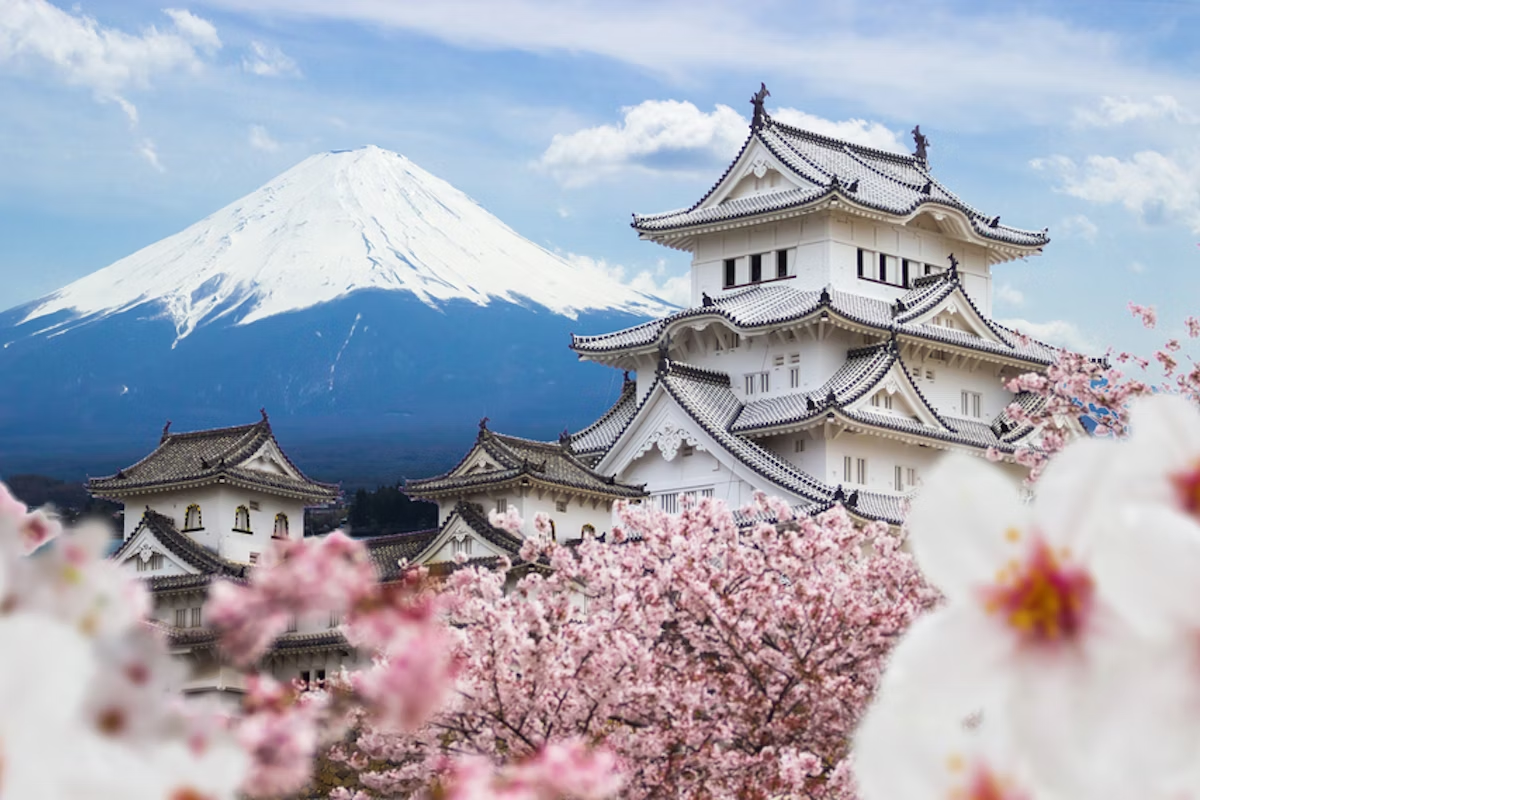
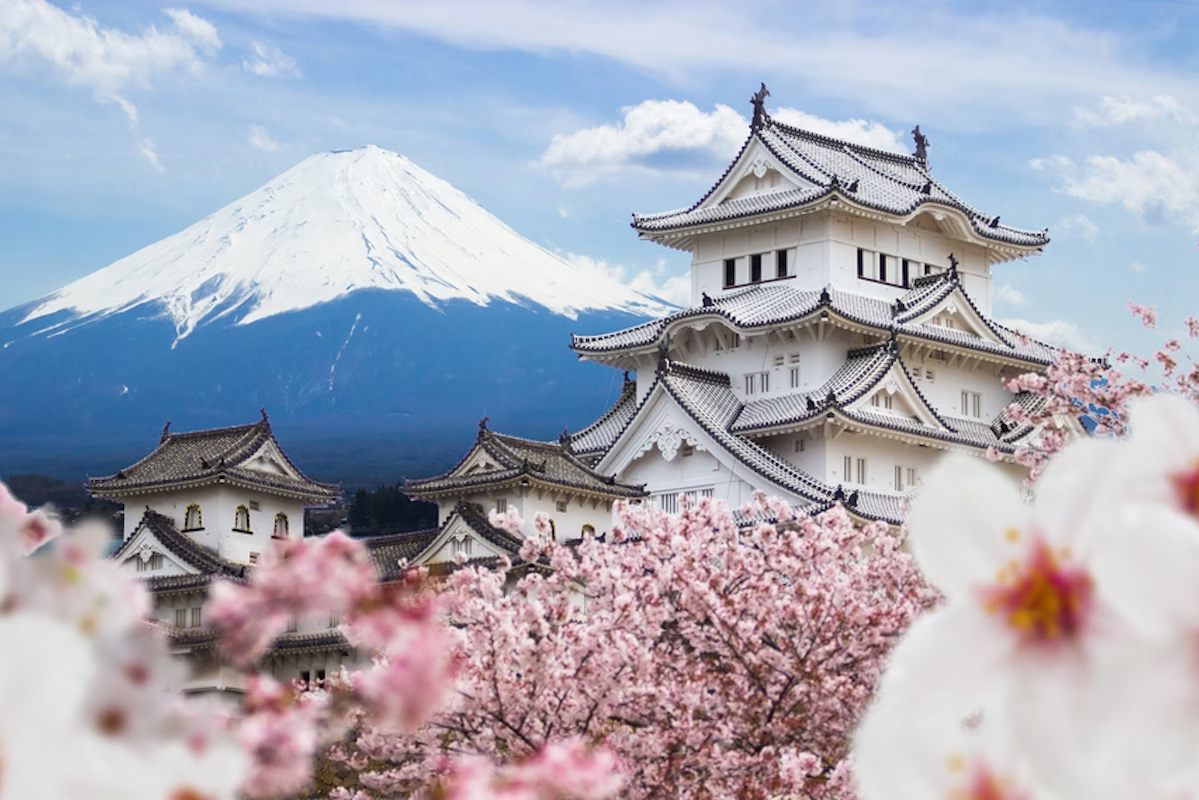
Entry

diff --git a/travel-journal/src/components/Entry.jsx b/travel-journal/src/components/Entry.jsx
@@ -1,7 +1,44 @@
+import japan from "../imgs/japan.png";
+import ubication from "../imgs/ubication.png";
+
 export default function Entry() {
   return (
-    <article>
-      <img src="..src\imgs\japan.png" />
+    <article className="journal-entry">
+      <div className="japan-img-container">
+        <img className="japan" src={japan} alt="picture of Japan" />
+      </div>
+      <div className="info-container">
+        <img className="ubication" src={ubication} alt="ubication marker" />
+        <span className="country">Japan</span>
+        <a href="https://www.google.com/maps/place/Mount+Fuji/@35.3606421,138.7170637,15z/data=!3m1!4b1!4m6!3m5!1s0x6019629a42fdc899:0xa6a1fcc916f3a4df!8m2!3d35.3606255!4d138.7273634!16zL20vMGNrczA?entry=ttu">
+          View on Google Maps{" "}
+        </a>
+        <h2 className="entry-title">Temple of Japan</h2>
+        <p className="trip-dates">22 March, 2024 - 7 April,2024</p>
+        <p className="entry-text">
+          In Japan, two kinds of religious buildings can be found: Buddhist
+          temples (寺) and Shinto shrines (神社). They share some common
+          features and are often confused with one another. This is because they
+          both feature traditional Japanese architecture: usually wooden
+          structures with columns and typical large roofs... The influences of
+          both religions are mixed as much on the substance as on the form.
+          Practices and rituals cross and it is not uncommon to find Buddha
+          symbols in a Shinto shrine and vice versa. This is due to the
+          religious syncretism that has persisted in Japan since the
+          introduction of Buddhism around the 5th century. This is the
+          phenomenon of combining totally different beliefs to create a new
+          religion. However, in order to differentiate these two sacred
+          monuments, you only have to pay some special attention to certain
+          details. In the Land of the Rising Sun there are more than 100,000
+          Japanese shrines, spread throughout the country.{" "}
+        </p>
+        <p className="entry-text">
+          As for the number of temples, they are estimated to be around 80,000.
+          Tokyo, Kyoto, Nara, Nikko and Miyajima are cities full of places of
+          worship to visit. In addition, the regions of Kansai, Kanto and Aichi
+          Prefecture are home to many Japanese temples.
+        </p>
+      </div>
     </article>
   );
 }

diff --git a/travel-journal/src/index.css b/travel-journal/src/index.css
@@ -6,7 +6,6 @@ header {
 nav {
   display: flex;
   justify-content: center;
-  
 }
 
 h2 {
@@ -26,4 +25,67 @@ h2 {
 .headerItems {
   display: flex;
   margin-top: 25px;
+}
+
+article.journal-entry {
+  display: flex;
+  margin-top: 10px;
+}
+
+.japan-img-container {
+  width: 400px;
+  height: 400px;
+  overflow: hidden;
+  border-radius: 5px;
+  flex-shrink: 0;
+  margin-right: 19px;
+}
+
+.japan {
+  height: 100%;
+  width: 100%;
+  object-fit: cover;
+}
+
+.ubication {
+  width: 60px;
+  height: 50px;
+}
+
+article.journal-entry .ubication {
+  width: fit-content;
+  margin-right: 4px;
+}
+
+.info-container span.country {
+  text-transform: uppercase;
+  font-size: 0.7rem;
+  margin-right: 12px;
+}
+
+.info-container a {
+  color: #2b283a;
+  font-size: 0.7rem;
+}
+
+.info-container a:visited {
+  color: #918e9b;
+}
+
+.info-container h2.entry-title {
+  margin-top: 7px;
+  margin-bottom: 17px;
+}
+
+.info-container p.trip-dates {
+  font-weight: bold;
+}
+
+.info-container p.entry-text {
+  line-height: 1.5;
+  font-size: 1rem;
+  display: -webkit-box;
+  -webkit-line-clamp: 3;
+  -webkit-box-orient: vertical;
+  overflow: hidden;
 }

diff --git a/travel-journal/src/App.jsx b/travel-journal/src/App.jsx
@@ -1,9 +1,11 @@
 import Header from "./components/Header";
+import Entry from "./components/Entry";
 
 export default function App() {
   return (
     <>
       <Header />
+      <Entry />
     </>
   );
 }
